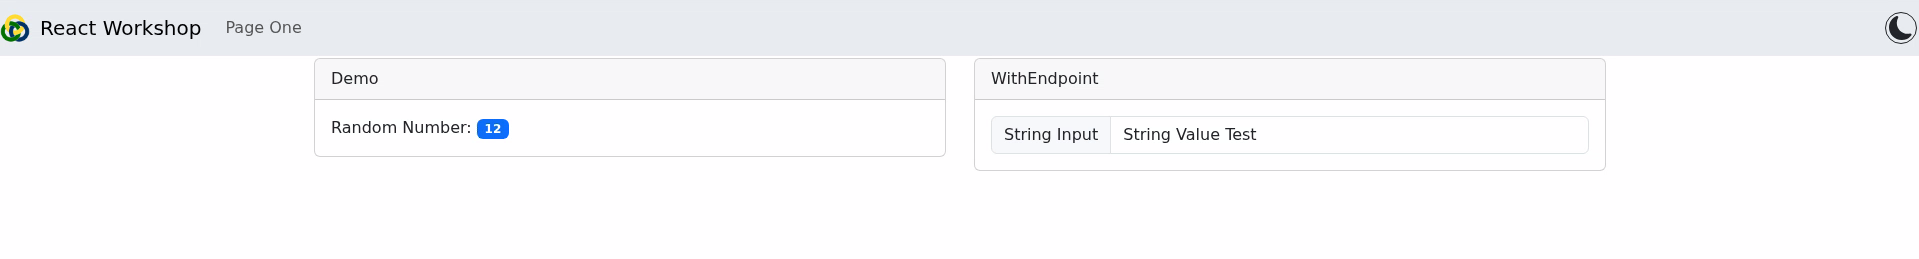
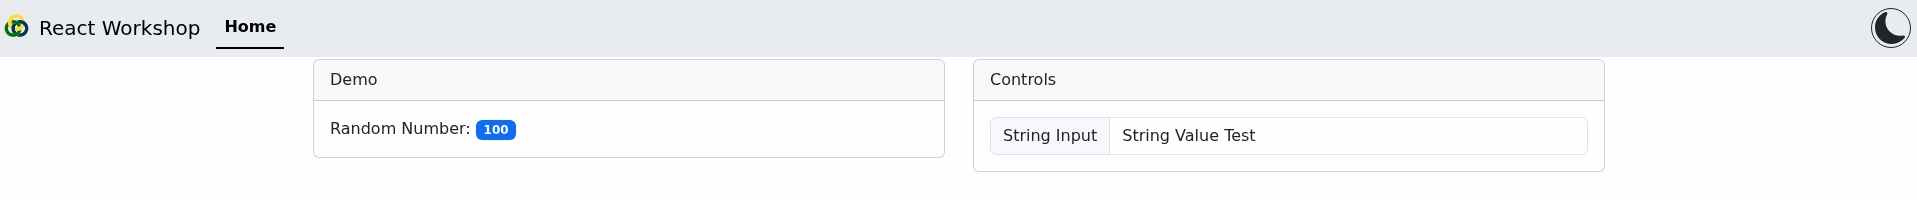
Finished changes to section about WithEndpoint components Removed references to using the actual WithEndpoint wrapper, instead of default provided components

diff --git a/README.md b/README.md
@@ -204,7 +204,7 @@ Feel free to use the generated controls to get a feel for how the various GUI co
 
 Now that you have a starting point, we can begin to build upon this to add specific controls with the Adapter!
 
-### Remove the Auto Generated Controls
+## Remove the Auto Generated Controls
 
 Whilst useful for testing a new GUI project, the generated controls are not designed for use in a final system. Our first step should be to remove these controls to replace them with our own specific design.
 
@@ -254,7 +254,7 @@ export default Page;
 
 With that removed, we can design the GUI ourselves.
 
-### Reading the Endpoint Data
+## Reading from the Adapter
 
 The endpoint provides a `data` object we can reference to display our parameters.
 If all we want is to show some value from a parameter without editing it, reading from this object is all we need to do. It handles all the `GET` requests and data parsing for us.
@@ -360,81 +360,60 @@ export default App
 ```
 Make this change, and then return to the Browser to see that the number now updates. The `AdapterEndpoint` object is now refreshing it's copy of the Parameter Tree as often as we've told it to.
 
-### Creating A Component that uses the Endpoint
+## Writing to the Adapter
 
-We now need to create a component that can not only read from the `endpoint`, but write to the Parameters. We can do this with the [WithEndpoint](https://github.com/stfc-aeg/odin-react/wiki/WithEndpoint) Higher Order Component, which will return a component that has the required props and event handlers to make use of the `Endpoint`.
+We can now see one of the Parameters from the Adapter, and see it update. But we almost certainly also want to be able to make changes in the Adapter to control various things.
 
-Odin React provides some standard Endpoint Components already wrapped by WithEndpoint, but for the purposes of this Workshop we will do this manually.
+To do so easily, Odin React provides a handful of `Endpoint Components` designed for this exact purpose.
 
-Lets start with a [textbox](https://react-bootstrap.netlify.app/docs/forms/form-control):
-``` TSX
-// TemplatePage.tsx
+### Adding a Textbox
 
-import { TitleCard } from "odin-react"
-//import the WithEndpoint wrapper from odin-react
-import { WithEndpoint } from 'odin-react';
+To start with, add an [EndpointInput](https://stfc-aeg.github.io/odin-react/?path=/docs/components-withendpoint-endpointinput--docs) to control the value of a string Parameter. We can create a new [TitleCard](https://stfc-aeg.github.io/odin-react/?path=/docs/components-titlecard--docs) to contain these new controls next to the badge display we created earlier.
 
+**Editing `src/Page.tsx`**
 
-import Container from "react-bootstrap/Container";
-import Row from 'react-bootstrap/Row';
-import Col from 'react-bootstrap/Col';
+```diff
+- import { TitleCard } from "@dssg/odin-react";
++ import { TitleCard, EndpointInput } from "@dssg/odin-react";
+import type { AdapterEndpoint } from "@dssg/odin-react";
+- import { Container, Row, Col, Badge } from 'react-bootstrap';
++ import { Container, Row, Col, Badge, Inputgroup } from 'react-bootstrap';
+import { type EndpointParams } from "./App";
 
-import Badge from "react-bootstrap/Badge";
+interface PageProps {
+    endpoint: AdapterEndpoint<EndpointParams>
+}
 
-//import the Form component from bootstrap
-import Form from 'react-bootstrap/Form';
-
-import type { AdapterEndpoint_t } from 'odin-react';
-
-//declare a new component based on the Form.Control, using WithEndpoint
-//notice that we do not provide it with the endpoint or anything at this stage. We've basically just made a new component we can then use.
-//also notice that this component must be created outside our actual Page component to avoid it being recreated every time that Page rerenders, and losing state.
-const EndpointInput = WithEndpoint(Form.Control);
-
-...
-
-```
-
-> [!NOTE]
-> Components created using `WithEndpoint` automatically make some assumptions about what you want them to do depending on the type of component and data it points to in the `AdapterEndpoint`. A `WithEndpoint` wrapped Button will, for instance, assume you want it to trigger when clicked, with whatever value you provide.
-> 
-> If you do not provide a value, a `WithEndpoint` component will use the value read from the Parameter Tree, at whatever path you point it at.
-
-Now we've created this `EndpointInput` component, we can use it to interact with the Odin Control Adapter, via the `AdapterEndpoint`. This automates a lot of the data handling for the HTTP requests.
-
-We can also still treat it like the original `Form.Control` that it wraps, and so can label it using some of the other [Bootstrap Form Components](https://react-bootstrap.netlify.app/docs/forms/overview):
-
-``` TSX
-// TemplatePage.tsx
-
-import Form from 'react-bootstrap/Form';
-import InputGroup from 'react-bootstrap/InputGroup';
-
-...
-
+const Page = ({
+    endpoint
+}: PageProps) => {
+    
     return (
         <Container>
-        <Row>
-        <Col>
-            <TitleCard title="Demo">
-                {/* Get the parameter out of the tree just using Dot Notation */}
-                Random Number: <Badge>{endpoint.data.rand_num}</Badge>
-            </TitleCard>
-        </Col>
-        <Col> {/*We can do the input in a separate Titlecard to demonstrate how the Rols/Cols work*/}
-            <TitleCard title="WithEndpoint">
-                {/*endpoint and fullpath are the only two REQUIRED props for a WithEndpoint component*/}
-                <InputGroup>
-                    <InputGroup.Text>String Input</InputGroup.Text>
-                    <EndpointInput endpoint={endpoint} fullpath="string_val"/>
-                </InputGroup>
-            </TitleCard>
-        </Col>
-        </Row>
+            <Row>
+                <Col>
+                    <TitleCard title="Demo">
+                        Random Number: <Badge>{endpoint.data?.rand_num ?? "Unknown"}</Badge>
+                    </TitleCard>
+                </Col>
+-           </Row>
+-           <Row>
+                <Col>
++                   <TitleCard title="Controls">
++                       <InputGroup>
++                           <InputGroup.Text>String Input</InputGroup.Text>
++                           <EndpointInput endpoint={endpoint} fullpath="string_val"/>
++                       </InputGroup>
++                   </TitleCard>
+                </Col>
+            </Row>
         </Container>
     )
 }
+
+export default Page;
 ```
+
 
 This textbox will automatically display the current value from the `AdapterEndpoint` Parameter Tree, and will do a PUT request to the path specified if you change the value and hit the Enter key. If we return to the browser, the changes made to the page should have been reloaded and the Input but now visible:
 
@@ -450,69 +429,89 @@ And when changing the value, the input is highlighted to show that it has been m
 
 If you then hit the Enter key whilst editing the text within the box, it will be sent to the Adapter. You should see something similar to the following in the terminal running Odin Control:
 
-```bash
-[D 250714 15:45:38 server:138] 204 OPTIONS /api/0.1/workshop (127.0.0.1) 1.05ms
-[D 250714 15:45:38 controller:92] PUT request received at path:  with data {'string_val': 'String Value'}
-[D 250714 15:45:38 controller:84] GET request received at path: 
-[D 250714 15:45:38 server:138] 200 PUT /api/0.1/workshop (127.0.0.1) 1.74ms
+```
+[I 260713 14:54:57 controller:92] PUT request received at path: string_val with data {'value': 'String Value'}
 ```
 
 The `EndpointInput` component can also be used for other Parameters in the same way, including numerical ones.
 
->[!NOTE]
-> `WithEndpoint` wrapped components will utilize the metadata provided by the Parameter Tree. If a Parameter is not defined as *Writeable*, the component will be disabled so that the user can visually see it is not an editable field.
+>[!TIP]
+> `Endpoint components` will utilize the metadata provided by the Parameter Tree. If a Parameter is not defined as *Writeable*, the component will be disabled so that the user can visually see it is not an editable field.
 >
 > With numerical Parameters it will also use any *min* or *max* values defined in the metadata.
 
-`WithEndpoint` can also be used to create other endpoint connected components, like [buttons](https://react-bootstrap.netlify.app/docs/components/buttons) and [dropdowns](https://react-bootstrap.netlify.app/docs/components/dropdowns). It works the same way the `EndpointInput` did, automatically detecting what should trigger a PUT request.
 
-### Another WithEndpoint Component
+### Adding a Button
 
-Lets now make a second component that can interact with the Adapter in a similar way to the textbox previously created. This time, we'll make a [Button](https://react-bootstrap.netlify.app/docs/components/buttons)
+Lets now add an [EndpointButton](https://stfc-aeg.github.io/odin-react/?path=/docs/components-withendpoint-endpointbutton--docs) to the same page, to trigger some sort of event in the Adapter.
 
-We can once again wrap the `Button` component with the `WithEndpoint` HOC to create another new Component with all the required Props.
+We can also provide it with any of the `props` that the normal component would use. These `props` get passed to the underlying component; in this case, the bootstrap `Button`. We can demonstrate this by using the `variant` prop of the button.
 
-```TSX
+```diff
+- import { EndpointInput, TitleCard } from "@dssg/odin-react";
++ import { EndpointButton, EndpointInput, TitleCard } from "@dssg/odin-react";
+import type { AdapterEndpoint } from "@dssg/odin-react";
+import { Container, Row, Col, Badge, InputGroup } from 'react-bootstrap';
+import { type EndpointParams } from "./App";
 
-...
-import Button from "react-bootstrap/Button";
+interface PageProps {
+    endpoint: AdapterEndpoint<EndpointParams>
+}
 
-const EndpointInput = WithEndpoint(Form.Control);
-const EndpointButton = WithEndpoint(Button);
+const Page = ({
+    endpoint
+}: PageProps) => {
+    
+    return (
+        <Container>
+            <Row>
+                <Col>
+                    <TitleCard title="Demo">
+                        Random Number: <Badge>{endpoint.data?.rand_num ?? "Unknown"}</Badge>
+                    </TitleCard>
+                </Col>
+                <Col>
+                    <TitleCard title="Controls">
+                        <InputGroup>
+                            <InputGroup.Text>String Input</InputGroup.Text>
+                            <EndpointInput endpoint={endpoint} fullpath="string_val"/>
+                        </InputGroup>
++                       <EndpointButton endpoint={endpoint} fullpath="trigger"
++                       value="Triggered Value" variant="success">
++                           Trigger
++                       </EndpointButton>
+                    </TitleCard>
+                </Col>
+            </Row>
+        </Container>
+    )
+}
 
-```
-
-Like before, we can use this component within our Template page. This time, we want to provide it with a value that it will send to the Adapter when clicked, instead of it reading the initial value from the adapter like the Textbox example does.
-
-We can also provide it with any of the `props` that the wrapped component would use. These `props` get ignored by the `WithEndpoint` layer, and passed down through to the underlying component; in this case, the `Button`. We can demonstrate this by using the `variant` prop of the button.
-
-```TSX
-
-...
-
-<InputGroup>
-    <InputGroup.Text>String Input</InputGroup.Text>
-    <EndpointInput endpoint={endpoint} fullpath="string_val"/>
-    {/*Use the EndpointButton component, passing it a value and a Variant for styling*/}
-    <EndpointButton endpoint={endpoint} fullpath="trigger" 
-    value="Triggered Value" variant="success">
-        Trigger
-    </EndpointButton>
-</InputGroup>
-
-...
-
+export default Page;
 ```
 <p align="center">
 <img src="./images/react_workshop_added_button.png"/>
 </p>
 
-> [!NOTE]
-> When assigning a value to a WithEndpoint wrapped component, that value does not have to be hardcoded in the way demonstrated above. It could just as easily be the value written into a textbox, or a State, or calculated from anything else within the GUI.
+Clicking this button should should show something similar to the following in the terminal running Odin Control:
+```
+[I 260713 15:21:38 controller:92] PUT request received at path: trigger with data {'value': 'Triggered Value'}
+[W 260713 15:21:38 controller:80] Event Triggered by API with value: Triggered Value
+```
 
-### Exercise: Make a Toggle Endpoint
+>[!NOTE]
+> We didn't provide the `EndpointInput` component a value, but we do with the `EndpointButton` component. If an `Endpoint Component` is not provided a `value` prop, it will always use the value read from the Parameter Tree. This is fine for input boxes, but buttons and similar components might want to send a specific value when clicked.
+>
+> When assigning a value to one of these components, that value does not have to be a simple hardcoded string like this example. You might want to calculate a value based on other Parameters, or even use React `State` variables (which are explained later in this workshop)
 
-Now try to create another Endpoint connected component using the same method as before. Try using the [Bootstrap Switch](https://react-bootstrap.netlify.app/docs/forms/checks-radios#switches) to set the boolean parameter `toggle`.
+
+### Exercise: Add More Controls
+
+Try adding more controls to the page, referring to the [Interactive Documentation](https://stfc-aeg.github.io/odin-react/) to see what other components are available. The list of Endpoint Components is shown under the `WithEndpoint` folder in the sidebar.
+
+For instance, try using the `EndpointInput` again, but this time for the `num_val` parameter to see how it changes when used for an integer.
+
+You could also try using the [EndpointDropdown](https://stfc-aeg.github.io/odin-react/?path=/docs/components-withendpoint-endpointdropdown--docs) component to control a Parameter with limited potential values. The `selected` Parameter on the Demo Adapter uses metadata to specify *Allowed Values*, which the dropdown component will use to generate a dropdown menu automatically.
 
 ## Error Handling
 
